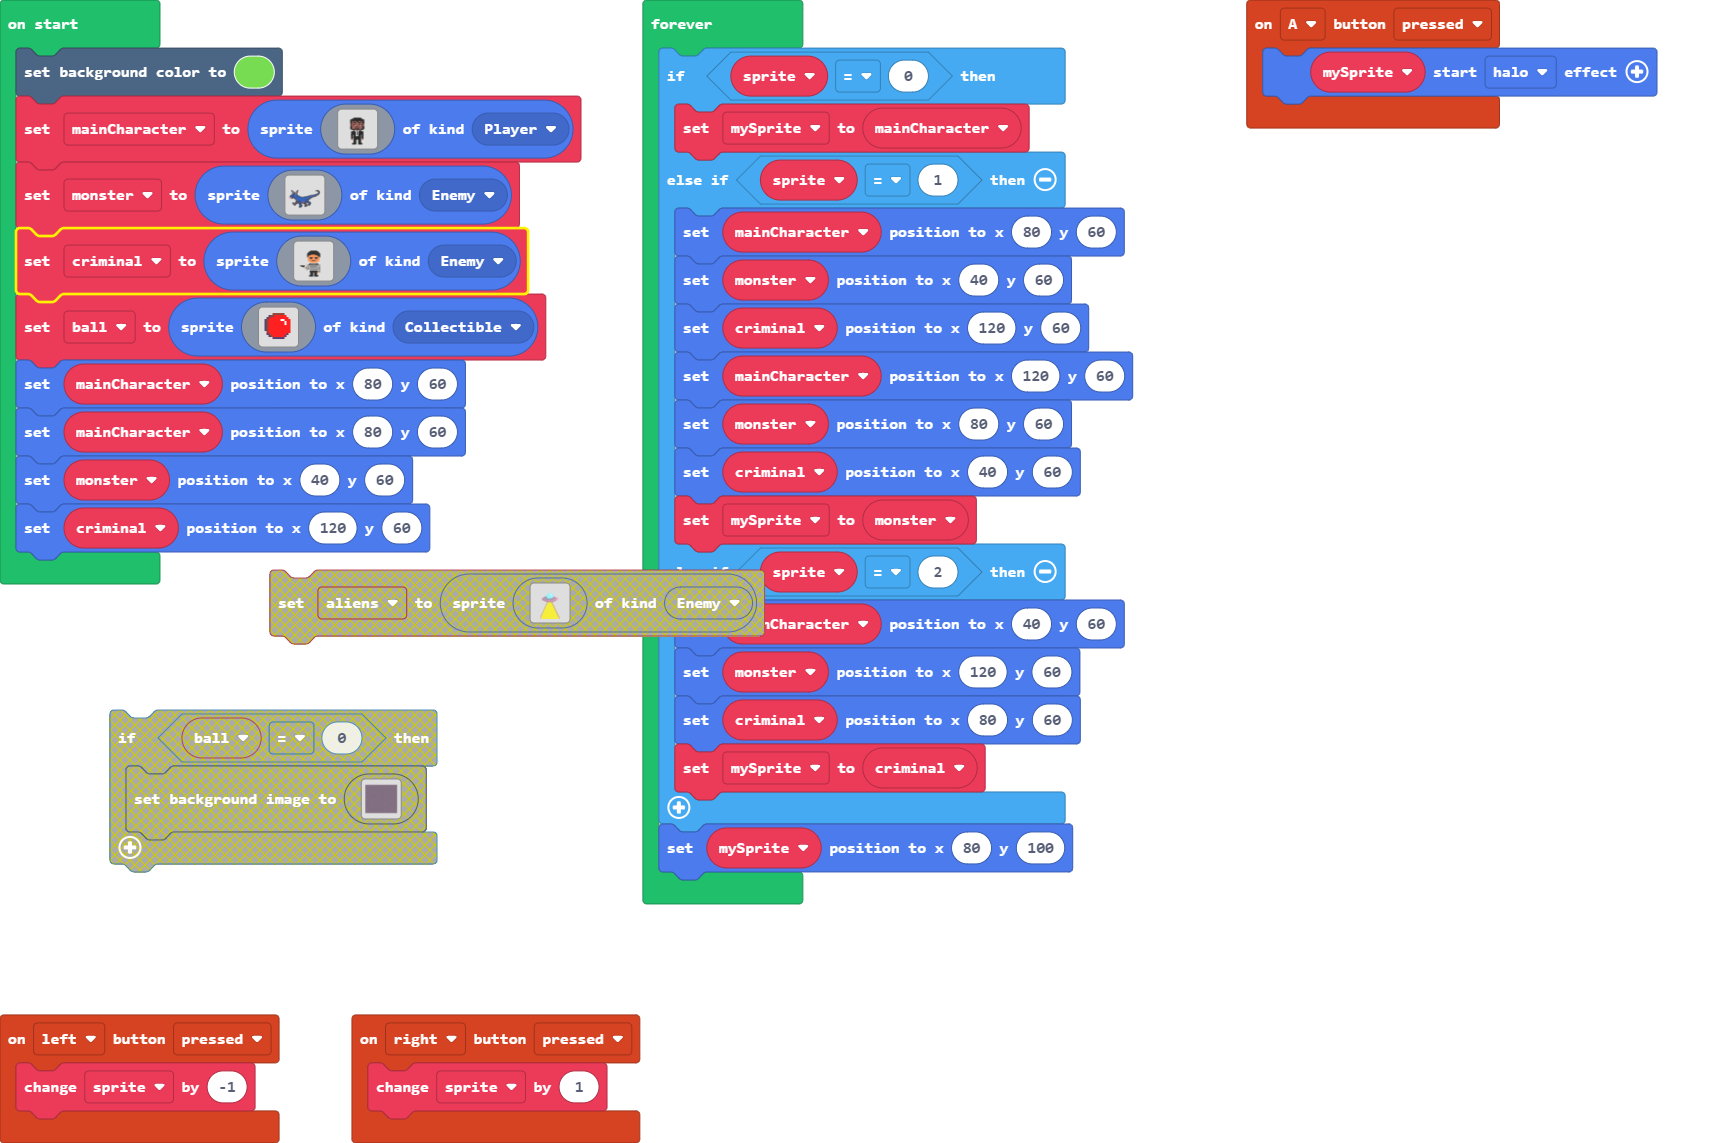
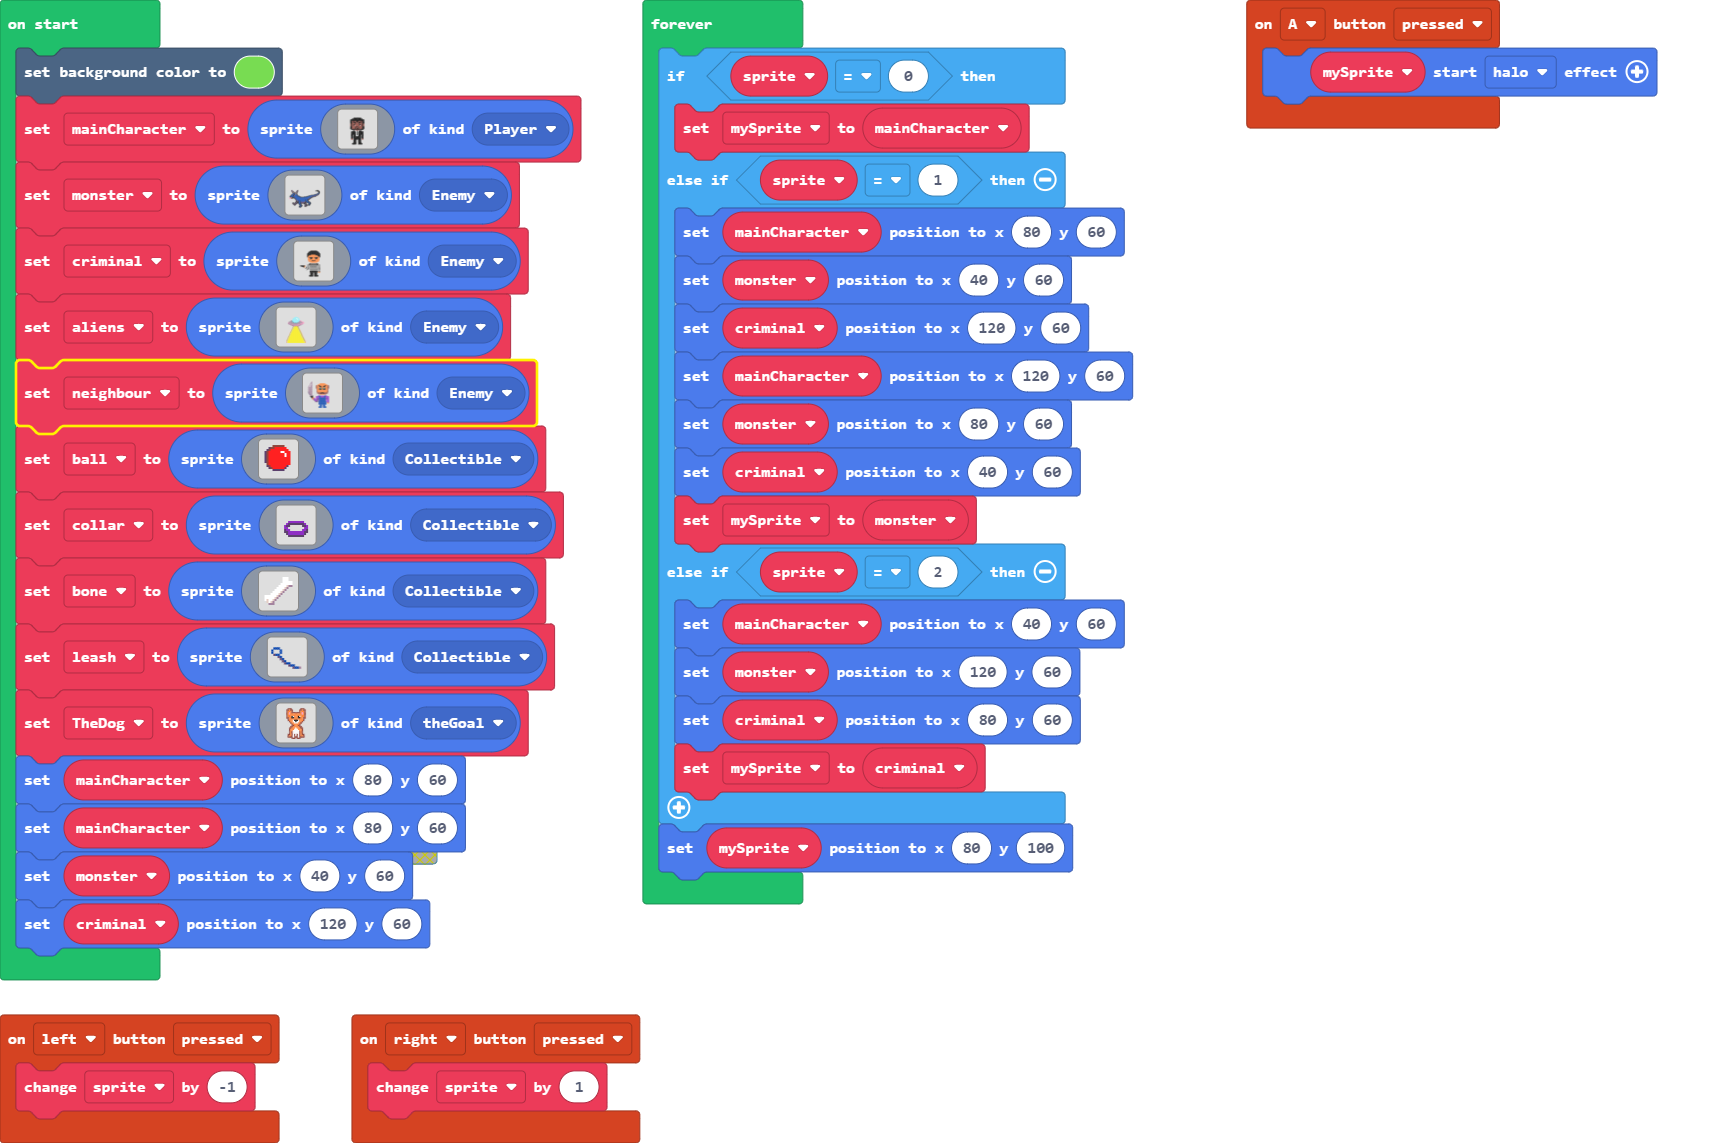
added all assets into the code

Changed region(s): [[0.0, 0.245, 0.4652, 0.8574], [0.0, 0.1837, 0.3101, 0.2143]]

diff --git a/images.g.ts b/images.g.ts
@@ -291,53 +291,6 @@ cccccccccccccccccccccccccccccccccccccccccccccccccccccccccccccccccccccccccccccccc
 .........eeee..............eeee..
 .................................
 `;
-            case "image10":
-            case "Dog2":return img`
-.........................
-......eee.......eee......
-.....ee4ee.....ee4ee.....
-.....e444e.....e444e.....
-.....e434eeeeeee434e.....
-.....e4344444444434e.....
-.....e4444444444444e.....
-.....e444f1444f1444e.....
-.....ee44ff444ff44ee.....
-......e44444444444e......
-......e4441fff1444e......
-.......e4411f1144e.......
-........e4411144e........
-.........e44444e.........
-.........ee444ee.........
-........ee44444ee........
-.......ee4441444ee.......
-.......e444111444e.......
-.......e441111144e.......
-.......e4e11111e4e.......
-.......e4e11111e4e.......
-......ee4e1e1e1e4ee......
-......e44e1e1e1e44e......
-......eeee1eee1eeee......
-.........eee.eee.........
-`;
-            case "image4":
-            case "bone":return img`
-. . . . . . . . . . . . . . . . 
-. . . . . . . . . . 1 1 1 . . . 
-. . . . . . . . . . 1 1 1 . . . 
-. . . . . . . . . . 1 1 1 1 1 . 
-. . . . . . . . . 1 1 1 1 1 1 . 
-. . . . . . . . 1 1 1 1 d b b . 
-. . . . . . . 1 1 1 1 d b . . . 
-. . . . . . 1 1 1 1 d b . . . . 
-. . . . . 1 1 1 1 d b . . . . . 
-. . . . 1 1 1 1 d b . . . . . . 
-. 1 1 1 1 1 1 d b . . . . . . . 
-. 1 1 1 1 1 d b . . . . . . . . 
-. 1 d 1 1 d b . . . . . . . . . 
-. . d 1 d b . . . . . . . . . . 
-. . . b b b . . . . . . . . . . 
-. . . . . . . . . . . . . . . . 
-`;
             case "image1":
             case "John Weak":return img`
 ........................................
@@ -433,24 +386,6 @@ cccccccccccccccccccccccccccccccccccccccccccccccccccccccccccccccccccccccccccccccc
 ..................ffffff..ffffff..................
 ..................ffffff..ffffff..................
 ..................................................
-`;
-            case "image9":
-            case "leash":return img`
-. . . . . . . . . . . . . . . 
-. . . . . . . . . . . . . . . 
-. . . . . . . . . . . . . . . 
-. 8 8 8 . . . . . . . . . . . 
-8 . . . 8 . . . . . . . . . . 
-8 . . . 8 . . . . . . . . . . 
-. c 8 8 . . . . . . . . . . . 
-. . . c 8 . . . . . . . . . . 
-. . . . c 8 . . . . . . . . . 
-. . . . . c 8 . . . . . . . . 
-. . . . . . c 8 8 . . . . . . 
-. . . . . . . . c 8 8 . . . . 
-. . . . . . . . . . c 8 8 b . 
-. . . . . . . . . . . . . . . 
-. . . . . . . . . . . . . . . 
 `;
             case "image14":
             case "Criminal0":return img`
@@ -548,25 +483,6 @@ cccccccccccccccccccccccccccccccccccccccccccccccccccccccccccccccccccccccccccccccc
 ..............fffff...fffff.............
 ........................................
 `;
-            case "image11":
-            case "collar":return img`
-. . . . . . . . . . . . . . . . 
-. . . . . . . . . . . . . . . . 
-. . . . . . . . . . . . . . . . 
-. . . . . . . . . . . . . . . . 
-. . . . . . . . . . . . . . . . 
-. . . . . . . . . . . . . . . . 
-. . . . a a a a a a a a . . . . 
-. . . a c c c c c c c c a . . . 
-. . a c c . . . . . . c c a . . 
-. . a a . . . . . . . . a a . . 
-. . c a a . . . . . . a a c . . 
-. . c c a a a a a a a a c c . . 
-. . . c a a a a a a a a c . . . 
-. . . . c c c c c c c c . . . . 
-. . . . . . . . . . . . . . . . 
-. . . . . . . . . . . . . . . . 
-`;
             case "image15":
             case "Neighbour0":return img`
 ..................................................
@@ -610,59 +526,6 @@ cccccccccccccccccccccccccccccccccccccccccccccccccccccccccccccccccccccccccccccccc
 ...............aaa.888888888888.cccc..............
 ...............aaa.888888888888...................
 ...............444.888888888888...................
-...................888888888888...................
-...................888888888888...................
-.....................888..888.....................
-.....................888..888.....................
-.....................888..888.....................
-...................88888..88888...................
-...................88888..88888...................
-..................................................
-..................................................
-`;
-            case "image13":
-            case "Neighbour":return img`
-..................................................
-..................................................
-..................................................
-..................................................
-..................................................
-..................................................
-..................................................
-........b.........................................
-.......bb.........................................
-.......bb.........................................
-......bbb............44444444.....................
-.....bb1b..........444444444444...................
-.....b1bb........4444444444444444.................
-....bb1bb......ee44ff44444444ff44ee...............
-....b1bbb......ee444fff4444fff444ee...............
-...bb1bbb......ee4444fff44fff4444ee...............
-...bbbbbb......ee4444444444444444ee...............
-...bbbbbb......ee444661f44661f444ee...............
-...bbbbbb.......e444ff6f44ff6f444e................
-...bbbbbb.......e444ffff44ffff444e................
-...bbbbbb.......e4444444444444444e................
-...bbbbbb.......e4444444444444444e................
-...bbbbbb.......e4444444444444444e................
-...cbbbbb.......ee44444444444444ee................
-...cbbbbb........eeeeeeffffeeeeee.................
-....cbbbb........eeeeeffeeffeeeee.................
-....cbbbb..........eeeeeeeeeeee...................
-.....cbbb............44444444.....................
-......cbb............11111111.....................
-......cbbf........aa88aaaaaa88aa..................
-......ffff.....aaaaa88aaaaaa88aaaaa...............
-.......fff.....aaaaa88aaaaaa88aaaaa...............
-........ff44...aaaaa8888888888aaaaa...............
-.........44aa..aaaca8888888888acaaa...............
-.........44aaa.aaaca8888888888acaaa...............
-...........caaaaacca8888888888a.aaa...............
-............caaaac.a8888888888a.aaa...............
-.............caaac.a8888888888a.aaa...............
-..............cccc.888888888888.aaa...............
-...................888888888888.aaa...............
-...................888888888888.444...............
 ...................888888888888...................
 ...................888888888888...................
 .....................888..888.....................
@@ -755,6 +618,143 @@ cccccccccccccccccccccccccccccccccccccccccccccccccccccccccccccccccccccccccccccccc
 ................................................................................
 ................................................................................
 ................................................................................
+`;
+            case "image11":
+            case "collar":return img`
+. . . . . . . . . . . . . . . . 
+. . . . . . . . . . . . . . . . 
+. . . . . . . . . . . . . . . . 
+. . . . . . . . . . . . . . . . 
+. . . . . . . . . . . . . . . . 
+. . . . . . . . . . . . . . . . 
+. . . . a a a a a a a a . . . . 
+. . . a c c c c c c c c a . . . 
+. . a c c . . . . . . c c a . . 
+. . a a . . . . . . . . a a . . 
+. . c a a . . . . . . a a c . . 
+. . c c a a a a a a a a c c . . 
+. . . c a a a a a a a a c . . . 
+. . . . c c c c c c c c . . . . 
+. . . . . . . . . . . . . . . . 
+. . . . . . . . . . . . . . . . 
+`;
+            case "image10":
+            case "Dog2":return img`
+.........................
+......eee.......eee......
+.....ee4ee.....ee4ee.....
+.....e444e.....e444e.....
+.....e434eeeeeee434e.....
+.....e4344444444434e.....
+.....e4444444444444e.....
+.....e444f1444f1444e.....
+.....ee44ff444ff44ee.....
+......e44444444444e......
+......e4441fff1444e......
+.......e4411f1144e.......
+........e4411144e........
+.........e44444e.........
+.........ee444ee.........
+........ee44444ee........
+.......ee4441444ee.......
+.......e444111444e.......
+.......e441111144e.......
+.......e4e11111e4e.......
+.......e4e11111e4e.......
+......ee4e1e1e1e4ee......
+......e44e1e1e1e44e......
+......eeee1eee1eeee......
+.........eee.eee.........
+`;
+            case "image9":
+            case "leash":return img`
+. . . . . . . . . . . . . . . 
+. . . . . . . . . . . . . . . 
+. . . . . . . . . . . . . . . 
+. 8 8 8 . . . . . . . . . . . 
+8 . . . 8 . . . . . . . . . . 
+8 . . . 8 . . . . . . . . . . 
+. c 8 8 . . . . . . . . . . . 
+. . . c 8 . . . . . . . . . . 
+. . . . c 8 . . . . . . . . . 
+. . . . . c 8 . . . . . . . . 
+. . . . . . c 8 8 . . . . . . 
+. . . . . . . . c 8 8 . . . . 
+. . . . . . . . . . c 8 8 b . 
+. . . . . . . . . . . . . . . 
+. . . . . . . . . . . . . . . 
+`;
+            case "image4":
+            case "bone":return img`
+. . . . . . . . . . . . . . . . 
+. . . . . . . . . . 1 1 1 . . . 
+. . . . . . . . . . 1 1 1 . . . 
+. . . . . . . . . . 1 1 1 1 1 . 
+. . . . . . . . . 1 1 1 1 1 1 . 
+. . . . . . . . 1 1 1 1 d b b . 
+. . . . . . . 1 1 1 1 d b . . . 
+. . . . . . 1 1 1 1 d b . . . . 
+. . . . . 1 1 1 1 d b . . . . . 
+. . . . 1 1 1 1 d b . . . . . . 
+. 1 1 1 1 1 1 d b . . . . . . . 
+. 1 1 1 1 1 d b . . . . . . . . 
+. 1 d 1 1 d b . . . . . . . . . 
+. . d 1 d b . . . . . . . . . . 
+. . . b b b . . . . . . . . . . 
+. . . . . . . . . . . . . . . . 
+`;
+            case "image13":
+            case "Neighbour":return img`
+..................................................
+..................................................
+..................................................
+..................................................
+..................................................
+..................................................
+..................................................
+........b.........................................
+.......bb.........................................
+.......bb.........................................
+......bbb............44444444.....................
+.....bb1b..........444444444444...................
+.....b1bb........4444444444444444.................
+....bb1bb......ee44ff44444444ff44ee...............
+....b1bbb......ee444fff4444fff444ee...............
+...bb1bbb......ee4444fff44fff4444ee...............
+...bbbbbb......ee4444444444444444ee...............
+...bbbbbb......ee444661f44661f444ee...............
+...bbbbbb.......e444ff6f44ff6f444e................
+...bbbbbb.......e444ffff44ffff444e................
+...bbbbbb.......e4444444444444444e................
+...bbbbbb.......e4444444444444444e................
+...bbbbbb.......e4444444444444444e................
+...cbbbbb.......ee44444444444444ee................
+...cbbbbb........eeeeeeffffeeeeee.................
+....cbbbb........eeeeeffeeffeeeee.................
+....cbbbb..........eeeeeeeeeeee...................
+.....cbbb............44444444.....................
+......cbb............11111111.....................
+......cbbf........aa88aaaaaa88aa..................
+......ffff.....aaaaa88aaaaaa88aaaaa...............
+.......fff.....aaaaa88aaaaaa88aaaaa...............
+........ff44...aaaaa8888888888aaaaa...............
+.........44aa..aaaca8888888888acaaa...............
+.........44aaa.aaaca8888888888acaaa...............
+...........caaaaacca8888888888a.aaa...............
+............caaaac.a8888888888a.aaa...............
+.............caaac.a8888888888a.aaa...............
+..............cccc.888888888888.aaa...............
+...................888888888888.aaa...............
+...................888888888888.444...............
+...................888888888888...................
+...................888888888888...................
+.....................888..888.....................
+.....................888..888.....................
+.....................888..888.....................
+...................88888..88888...................
+...................88888..88888...................
+..................................................
+..................................................
 `;
         }
         return null;

diff --git a/main.ts b/main.ts
@@ -1,5 +1,6 @@
 namespace SpriteKind {
     export const Collectible = SpriteKind.create()
+    export const theGoal = SpriteKind.create()
 }
 controller.A.onEvent(ControllerButtonEvent.Pressed, function () {
     mySprite.startEffect(effects.halo)
@@ -16,7 +17,13 @@ scene.setBackgroundColor(7)
 let mainCharacter = sprites.create(assets.image`John Weak`, SpriteKind.Player)
 let monster = sprites.create(assets.image`Monster`, SpriteKind.Enemy)
 let criminal = sprites.create(assets.image`Criminal`, SpriteKind.Enemy)
+let aliens = sprites.create(assets.image`Alien`, SpriteKind.Enemy)
+let neighbour = sprites.create(assets.image`Neighbour`, SpriteKind.Enemy)
 let ball = sprites.create(assets.image`ball`, SpriteKind.Collectible)
+let collar = sprites.create(assets.image`collar`, SpriteKind.Collectible)
+let bone = sprites.create(assets.image`bone`, SpriteKind.Collectible)
+let leash = sprites.create(assets.image`leash`, SpriteKind.Collectible)
+let TheDog = sprites.create(assets.image`Dog2`, SpriteKind.theGoal)
 mainCharacter.setPosition(80, 60)
 mainCharacter.setPosition(80, 60)
 monster.setPosition(40, 60)
